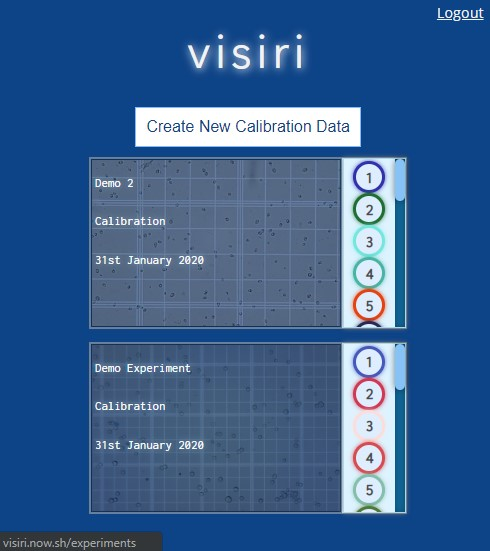
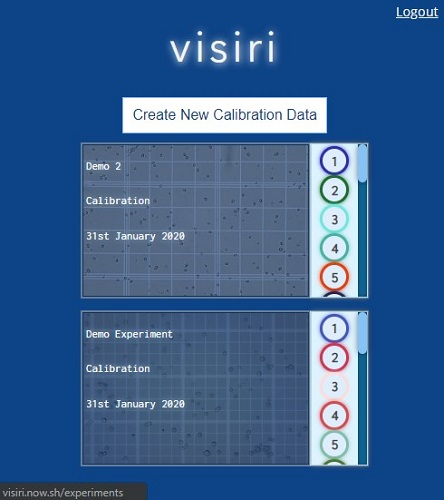
updates

diff --git a/index.css b/index.css
@@ -203,20 +203,33 @@ header {
   text-decoration: line-through;
 }
 .project img {
+  /* position: relative; */
   width: 50%;
+  /* max-width: 50%; */
+  margin: 2px 2px 2px 2px;
+  /* max-height: 500px; */
+  transition: all 0.25s linear;
+}
+.project img:active {
+  position: relative;
+  transform: scale(1.5);
   margin: 2px 2px 2px 2px;
 }
+
 .project-images {
+  cursor: pointer;
+  /* overflow: hidden; */
   position: relative;
   padding: 5px 5px;
-  background-color: rgb(235, 240, 245);
+  background-color: rgb(53, 53, 53);
   width: 100%;
-  max-width: 800px;
+  max-width: 1000px;
+  /* max-height: 500px; */
   display: flex;
   align-items: center;
   justify-content: space-around;
   z-index: 1;
-  box-shadow: 0 0 5px 0 rgba(13, 41, 39, 0.75);
+  box-shadow: 0 0 5px 0 rgba(189, 189, 189, 0.75);
 }
 
 .project-description {
@@ -252,9 +265,13 @@ header {
 }
 
 .project-info a {
-  display: block;
+  display: flex;
+  justify-content: center;
+  align-content: center;
   color: #ffd758;
-  width: 100px;
+  flex-shrink: 1;
+  flex-basis: 100px;
+  /* max-width: 100px; */
   text-align: center;
   background-color: rgb(66, 66, 66);
   padding: 10px 10px;
@@ -279,7 +296,8 @@ header {
   position: relative;
   font-size: 0.9em;
   width: 90vw;
-  max-width: 800px;
+  height: 50%;
+  max-width: 1000px;
   display: flex;
   flex-direction: column;
   justify-content: center;
@@ -347,6 +365,17 @@ nav {
   height: 40px;
   color: #333;
   transition: 0.2s ease-in-out;
+}
+
+.AboutMe,
+.ContactMe {
+  padding: 2em;
+  line-height: 1.4em;
+  color: whitesmoke;
+}
+
+.AboutMe p {
+  font-size: 1em;
 }
 
 @media screen and (max-width: 1100px) {

diff --git a/index.html b/index.html
@@ -90,14 +90,8 @@
               </h4>
             </div>
             <div class="project-images">
-              <img
-                src="./screenshots/visiri-dashboard.jpg"
-                alt="Project image"
-              />
-              <img
-                src="./screenshots/visiri-labelling.jpg"
-                alt="Project image"
-              />
+              <img src="./screenshots/visiri-main.png" alt="Project image" />
+              <img src="./screenshots/visiri-mark.png" alt="Project image" />
             </div>
             <div class="project-info">
               <ul>
@@ -219,7 +213,7 @@
         </div>
       </section>
       <section class="AboutMe" id="about">
-        <h2>About Me Section</h2>
+        <h2>About Me</h2>
         <p>
           My background is in biology and I spent over 7 years in cancer
           research labs. There I gained an immense insight into conducting
@@ -237,11 +231,11 @@
         </p>
       </section>
       <section class="ContactMe" id="contact">
-        <h2>Contact Me Section</h2>
+        <h2>Contact</h2>
         <div>
-          <div>
+          <!-- <div>
             <img class="profilepic" src="img/Profile.png" />
-          </div>
+          </div> -->
           <div class="contact-info">
             <p><b>Zayar Khin</b></p>
             <span>Frontend, </span>
